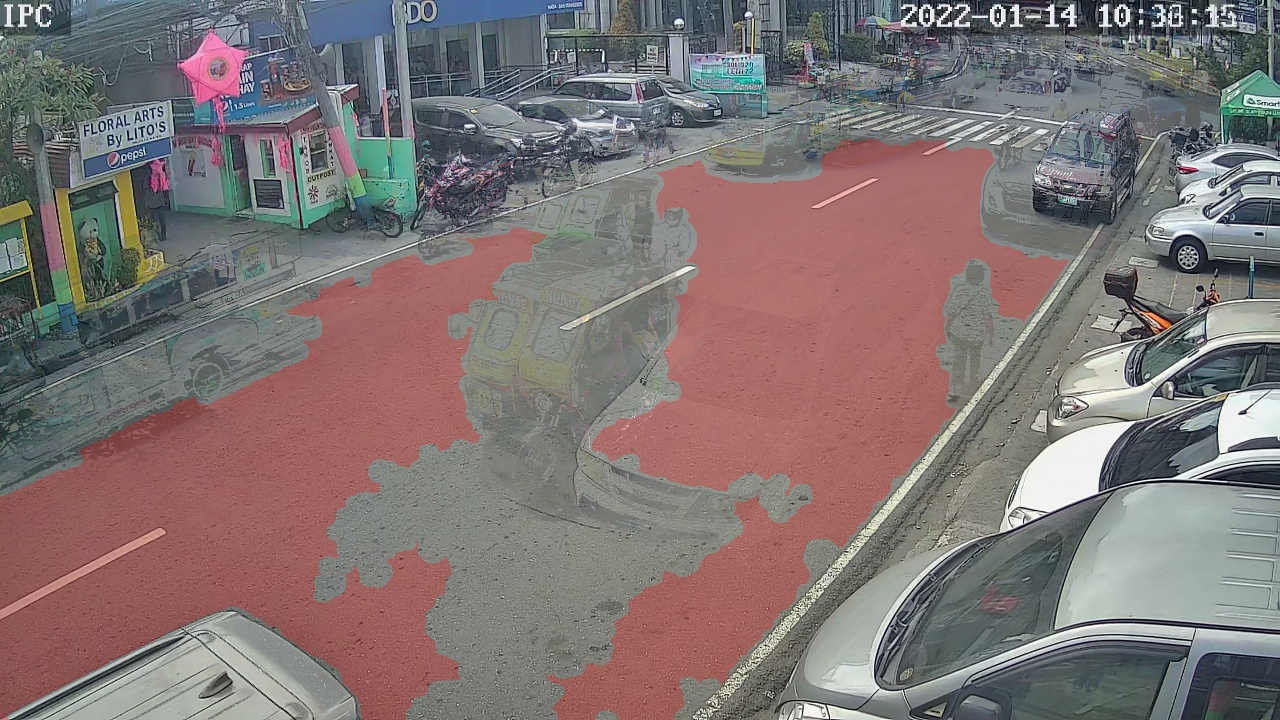
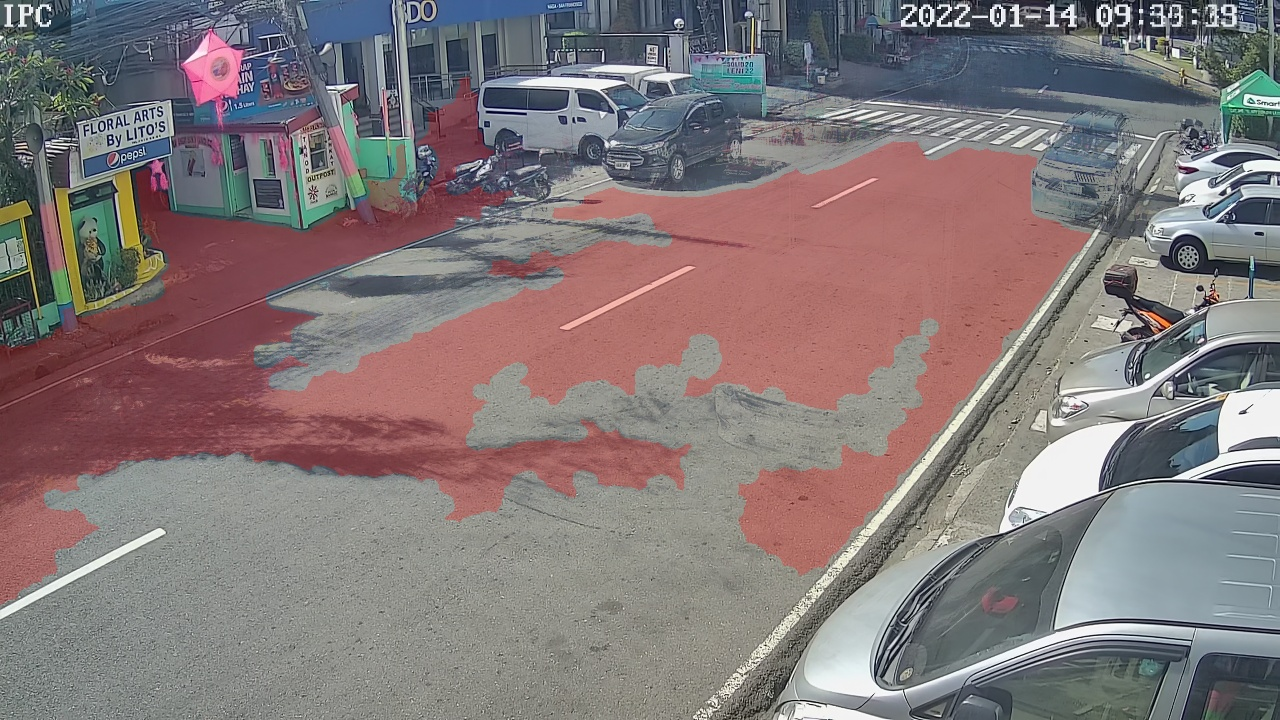
fixed changing ROI while detection is running in BG

diff --git a/Client/mainUi.py b/Client/mainUi.py
@@ -239,8 +239,8 @@ class RoadSetUp1(QtWidgets.QMainWindow):#Road Setting Up Ui
 
         r = requests.delete(url = baseURL + "/RoadDelete",json=data,headers=headers )
         print(r)
-        self.update
-        self.repaint
+        self.update()
+        self.repaint()
         # print (r.json())
 
 
@@ -482,6 +482,7 @@ class Controller:
     
     # function to call when the process of bg modelling and road extraction is done using thread
     def finishedInBGModelAndRoad(self):
+        
         self.roadImage, self.ROI =  self.bgAndRoad.bgImage,  self.bgAndRoad.ROI
         if self.roadImage is not NULL:
             self.roadLoad.closeWindow()
@@ -509,60 +510,83 @@ class Controller:
         self.windowRoadSettingUp=roadSettingUp()
         self.windowRoadSettingUp.screenLabel.connect(self.showScreenImage)
     def showFinishingUi(self):
-        self.windowFinishing=FinishingUi()
-        
-        # initialize detection
-        # loading for finishing 
-        # print(self.ROI)
-
-        try:
-            if self.road.flagRoad:
-                self.ROI = self.road.selectedROI
-                self.road.flagRoad = False
-                self.roadImage = cv.imread(self.road.selectedRoadImage)
-            
-        except:
-            #setting up the roadID 
-            self.roadPaint.close()
-            if self.road.dataRoadGlobal: #determining if the dataRoadGlobal is empty
-                roadIDLatest=str(self.road.dataRoadGlobal[len(self.road.dataRoadGlobal)-1]['roadID']).split("-")
-                print(roadIDLatest)
-                intRoadID=int(roadIDLatest[1]) + 1
-                roadID="R-" + str(intRoadID).zfill(7)
-                print(roadID)
+        if self.window.vidFile is not None: # hcheck if there's a current vid file
+            # initialize detection
+            try:
+                # fot btn confirm
+                if self.road.flagRoad:
+                    self.ROI = self.road.selectedROI
+                    try:
+                        # if detection is currently running
+                        self.initDet.det.dets.changeROI(self.road.selectedROI)
+                        self.window.label.setText(self.road.selectedRoadName)
+                        print('ROI has been changed in running confirm')
+                    except:
+                        # if it is not running, pass, then ruin code below
+                        self.windowFinishing=FinishingUi()
+                        pass
+                    self.road.flagRoad = False
+                    self.roadImage = cv.imread(self.road.selectedRoadImage)
                 
-            else:
-                type = 'road'
-                roadID = "R-000000"+str(read(type)+1)
-            print(self.ROI[0])
+            except:
+                # for btn new
+                self.roadPaint.close()
+                try:
+                    # if detection is currently running
+                    self.initDet.det.dets.changeROI(self.ROI)
+                    self.window.label.setText(self.roadPaint.roadNameValue)
+                    print('ROI has been changed in running new')
+                except:
+                    self.windowFinishing=FinishingUi()
+                    # if it is not running, pass then execute code below
+                    pass
+                #setting up the roadID
+                if self.road.dataRoadGlobal: #determining if the dataRoadGlobal is empty
+                    roadIDLatest=str(self.road.dataRoadGlobal[len(self.road.dataRoadGlobal)-1]['roadID']).split("-")
+                    print(roadIDLatest)
+                    intRoadID=int(roadIDLatest[1]) + 1
+                    roadID="R-" + str(intRoadID).zfill(7)
+                    print(roadID)
+                    
+                else:
+                    type = 'road'
+                    roadID = "R-000000"+str(read(type)+1)
+                print(self.ROI[0])
 
-            # serialized=[]
-            # for c in self.ROI:
-            #     serialized.append(json.dumps(c.tolist()))     
+                # serialized=[]
+                # for c in self.ROI:
+                #     serialized.append(json.dumps(c.tolist()))     
 
-            cv.imwrite("images/{}.jpg".format(roadID), self.roadImage) #writing the image with ROI to Client/images path
-            roadCapturedJPG = "images/"+roadID+".jpg"
-            #making the data a json type
-            data = {
-                'roadID' : roadID,
-                'roadName' : self.roadPaint.roadNameValue,
-                'roadCaptured' : roadCapturedJPG,
-                'roadBoundaryCoordinates' : pd.Series(self.ROI).to_json(orient='values')
-                # 
-            }  
-            self.saveRoad(data)
+                cv.imwrite("images/{}.jpg".format(roadID), self.roadImage) #writing the image with ROI to Client/images path
+                roadCapturedJPG = "images/"+roadID+".jpg"
+                #making the data a json type
+                data = {
+                    'roadID' : roadID,
+                    'roadName' : self.roadPaint.roadNameValue,
+                    'roadCaptured' : roadCapturedJPG,
+                    'roadBoundaryCoordinates' : pd.Series(self.ROI).to_json(orient='values')
+                    # 
+                }  
+                self.saveRoad(data)
 
 
-        
-        self.thread = QThread()
-        self.initDet = Worker(self)
-        self.initDet.moveToThread(self.thread)
-        self.thread.started.connect(self.initDet.initDet)
-        self.initDet.finished.connect(self.thread.quit)
-        self.thread.finished.connect(self.finishedInitDet) # execute when the task in thread is finised
-        self.thread.start()
-        print("started init det")
-
+            try:
+                if not self.initDet.det.dets.stopped:
+                    #if detection is running
+                    #do nothing since ROI has been changed above
+                    pass
+            except:
+                # if detection is not running
+                self.thread = QThread()
+                self.initDet = Worker(self)
+                self.initDet.moveToThread(self.thread)
+                self.thread.started.connect(self.initDet.initDet)
+                self.initDet.finished.connect(self.thread.quit)
+                self.thread.finished.connect(self.finishedInitDet) # execute when the task in thread is finised
+                self.thread.start()
+                print("started init det")
+        else:
+            ctypes.windll.user32.MessageBoxW(0, "Please insert a video first", "Empty Video file", 1)
     #this function will request post to save the data to the database
     def saveRoad(self,data):
         headers = {'Content-type': 'application/json', 'Accept': 'text/plain'}

diff --git a/detection_module/track.py b/detection_module/track.py
@@ -124,9 +124,9 @@ class det:
             bs = len(self.dataset)  # batch_size
         else:
             # getting the mask of roi
-            mask = np.zeros(shape, np.uint8)
-            cv2.drawContours(mask, roi, -1, (255,255,255), thickness= -1)
-            self.dataset = LoadImages(self.source, img_size=self.imgsz, stride=stride, auto=pt and not jit, mask = mask)
+            self.mask = np.zeros(shape, np.uint8)
+            cv2.drawContours(self.mask, roi, -1, (255,255,255), thickness= -1)
+            self.dataset = LoadImages(self.source, img_size=self.imgsz, stride=stride, auto=pt and not jit, mask = self.mask)
             bs = 1  # batch_size
         self.vid_path, self.vid_writer = [None] * bs, [None] * bs
 
@@ -144,6 +144,7 @@ class det:
         self.t11 = time_sync()
         self.opt = opt
         self.roi = roi
+        self.shape = shape
         self.num_processes = multiprocessing.cpu_count()
         self.t = Thread(target=self.detect, args=()) # use multiprocess instead of thread
         self.flag = False
@@ -291,11 +292,11 @@ class det:
                         else: # set the prev frame xy to current xy
                             self.PREV_XY = xy
                         self.dt[4] += t5 - tim
-                        LOGGER.info(f'Done. Read-frame: ({t1-tim:.3f}) YOLO:({t3 - t2:.3f}s), DeepSort:({t5 - t4:.3f}s), Stationary:({t9 - t8:.3f}s) Overall:({t5-tim:.3f}s)')
+                        # LOGGER.info(f'Done. Read-frame: ({t1-tim:.3f}) YOLO:({t3 - t2:.3f}s), DeepSort:({t5 - t4:.3f}s), Stationary:({t9 - t8:.3f}s) Overall:({t5-tim:.3f}s)')
 
                     else:
                         self.deepsort.increment_ages()
-                        LOGGER.info('No detections')
+                        # LOGGER.info('No detections')
 
                     # Stream results
                     im = annotator.result()
@@ -365,6 +366,12 @@ class det:
         r = requests.post(url = baseURL + "/ViolationInsert",data=json.dumps(data),headers=headers)
         print(r)
 
+
+    def changeROI(self, ROI):
+        self.roi = ROI
+        self.mask = np.zeros(self.shape, np.uint8)
+        cv2.drawContours(self.mask, self.roi, -1, (255,255,255), thickness= -1)
+        self.dataset.mask = self.mask
     # # Print results
     # t = tuple(x / seen * 1E3 for x in dt)  # speeds per image
     # LOGGER.info(f'Speed: %.1fms pre-process, %.1fms inference, %.1fms NMS, %.1fms deep sort update \

diff --git a/detection_module/yolov5/utils/datasets.py b/detection_module/yolov5/utils/datasets.py
@@ -191,7 +191,7 @@ class VideoGet:
                 self.frames += 1
                 (self.grabbed, self.frame) = self.stream.read()
                 timeDiff = time_sync() - now
-                print('%.3f and %.3f' % (timeDiff, 1.0/(self.fps*1.5)), end='\r')
+                # print('%.3f and %.3f' % (timeDiff, 1.0/(self.fps*1.5)), end='\r')
                 if (timeDiff<1.0/(self.fps*1.5)):
                     time.sleep((1.0/(self.fps*1.5)) - timeDiff)
                 else:

diff --git a/main.py b/main.py
@@ -36,7 +36,7 @@ def getBgModelAndRoad(vid):
     t2 = time.time()
     print('Time it took to Extract Road from the Background Model: %.3fs' % (t2-t1))
     # cv.imshow("road", road_surface)
-    # cv.imwrite("images/road.jpg", image)
+    cv.imwrite("images/road.jpg", image)
     return image, ROI
 
 class detection:
